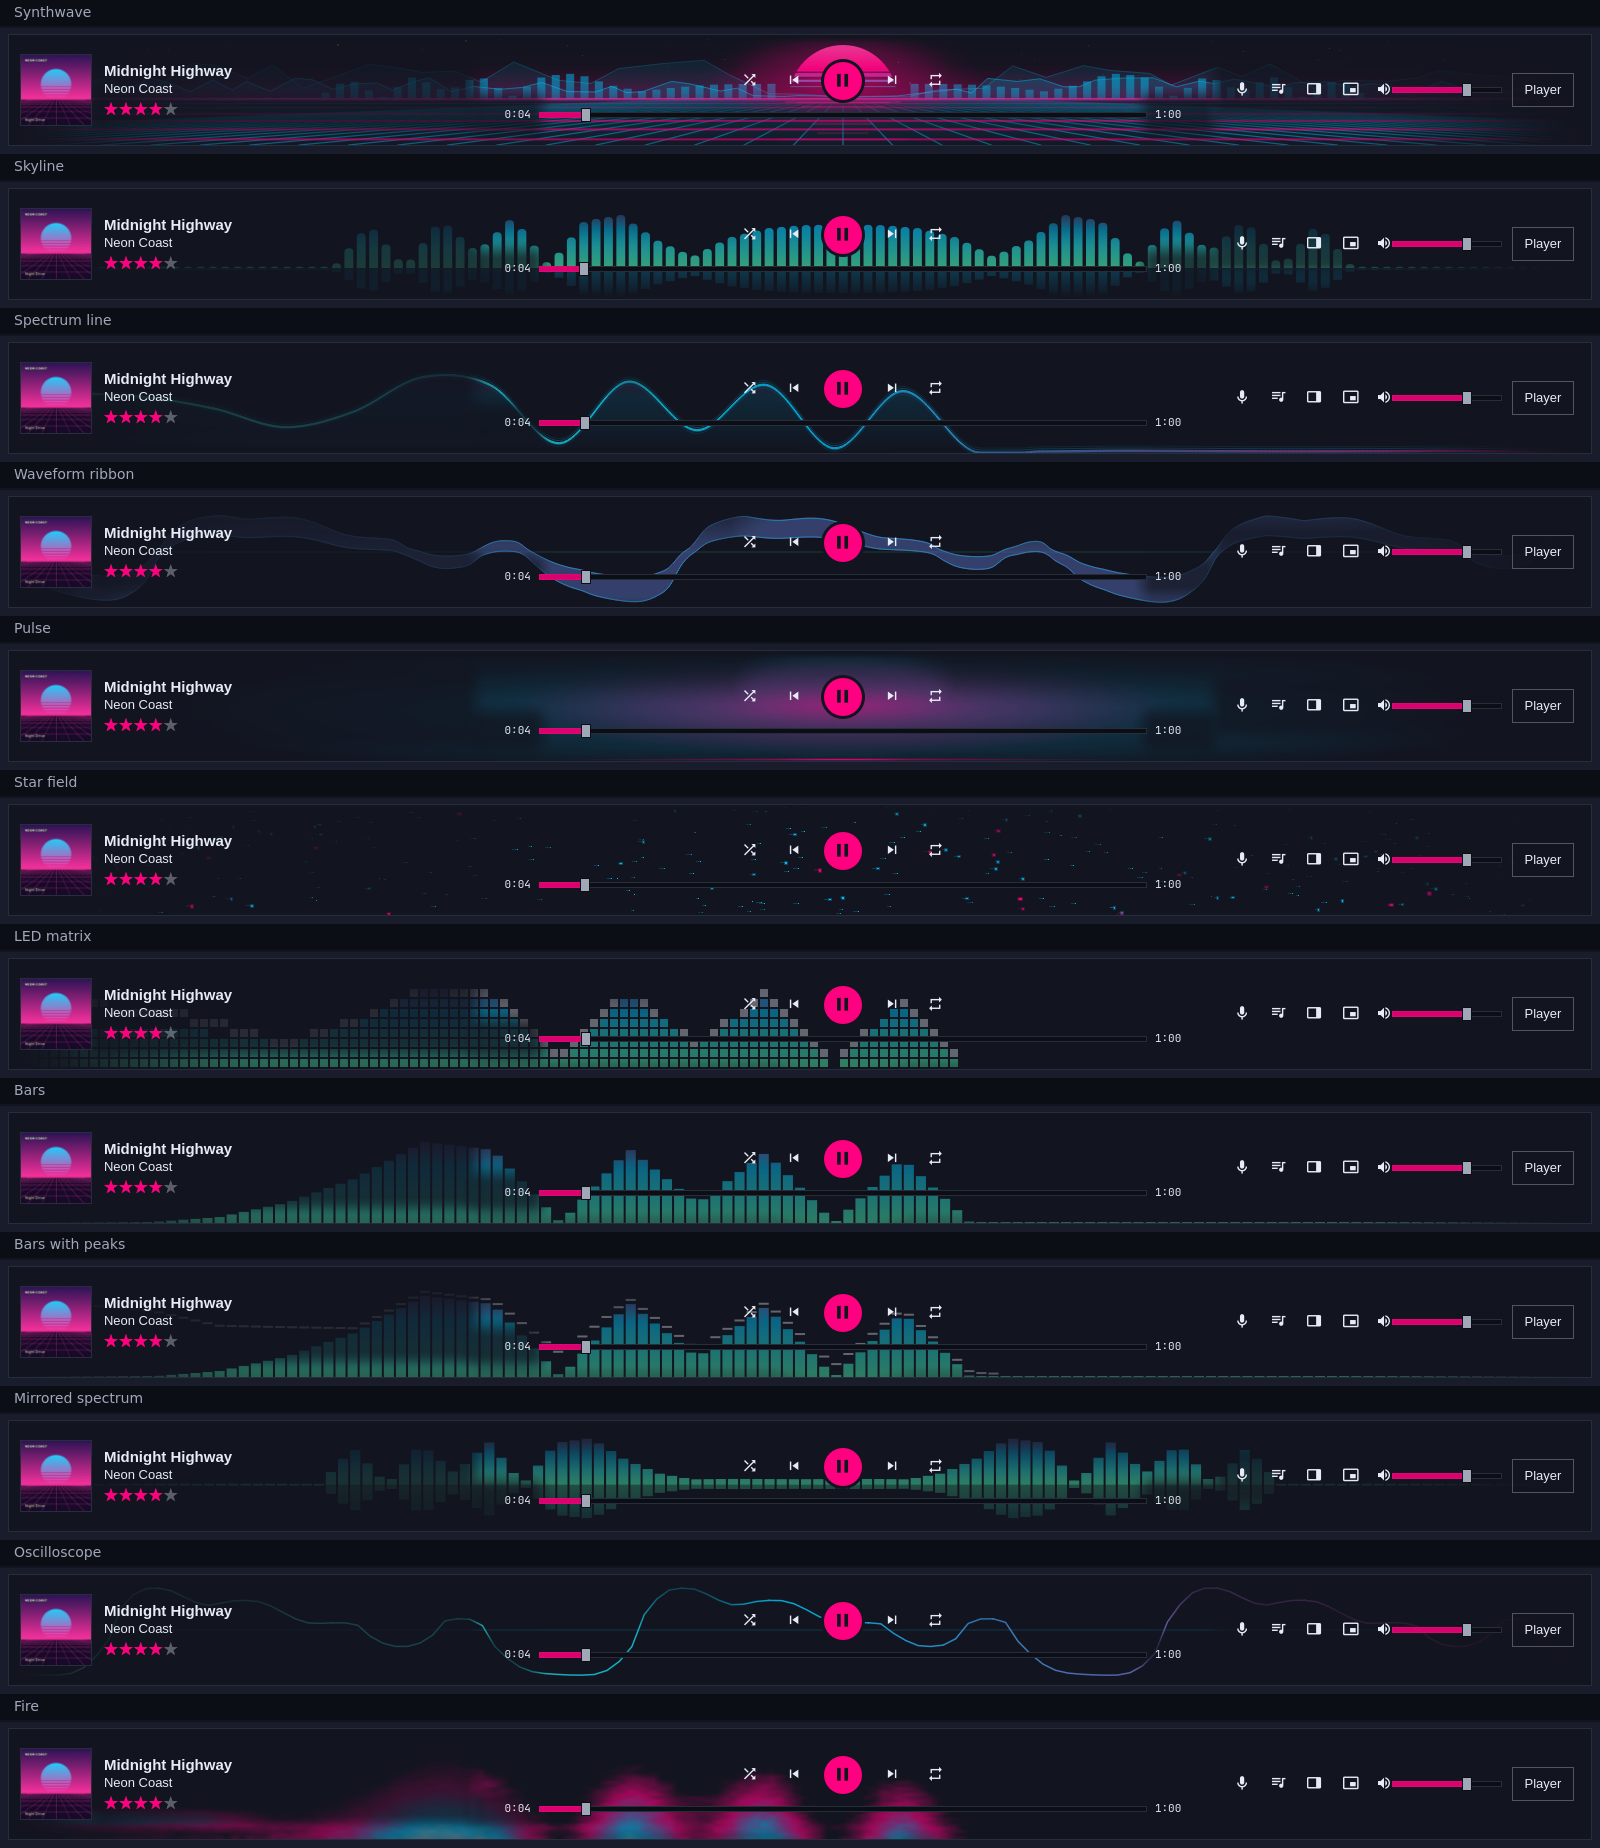
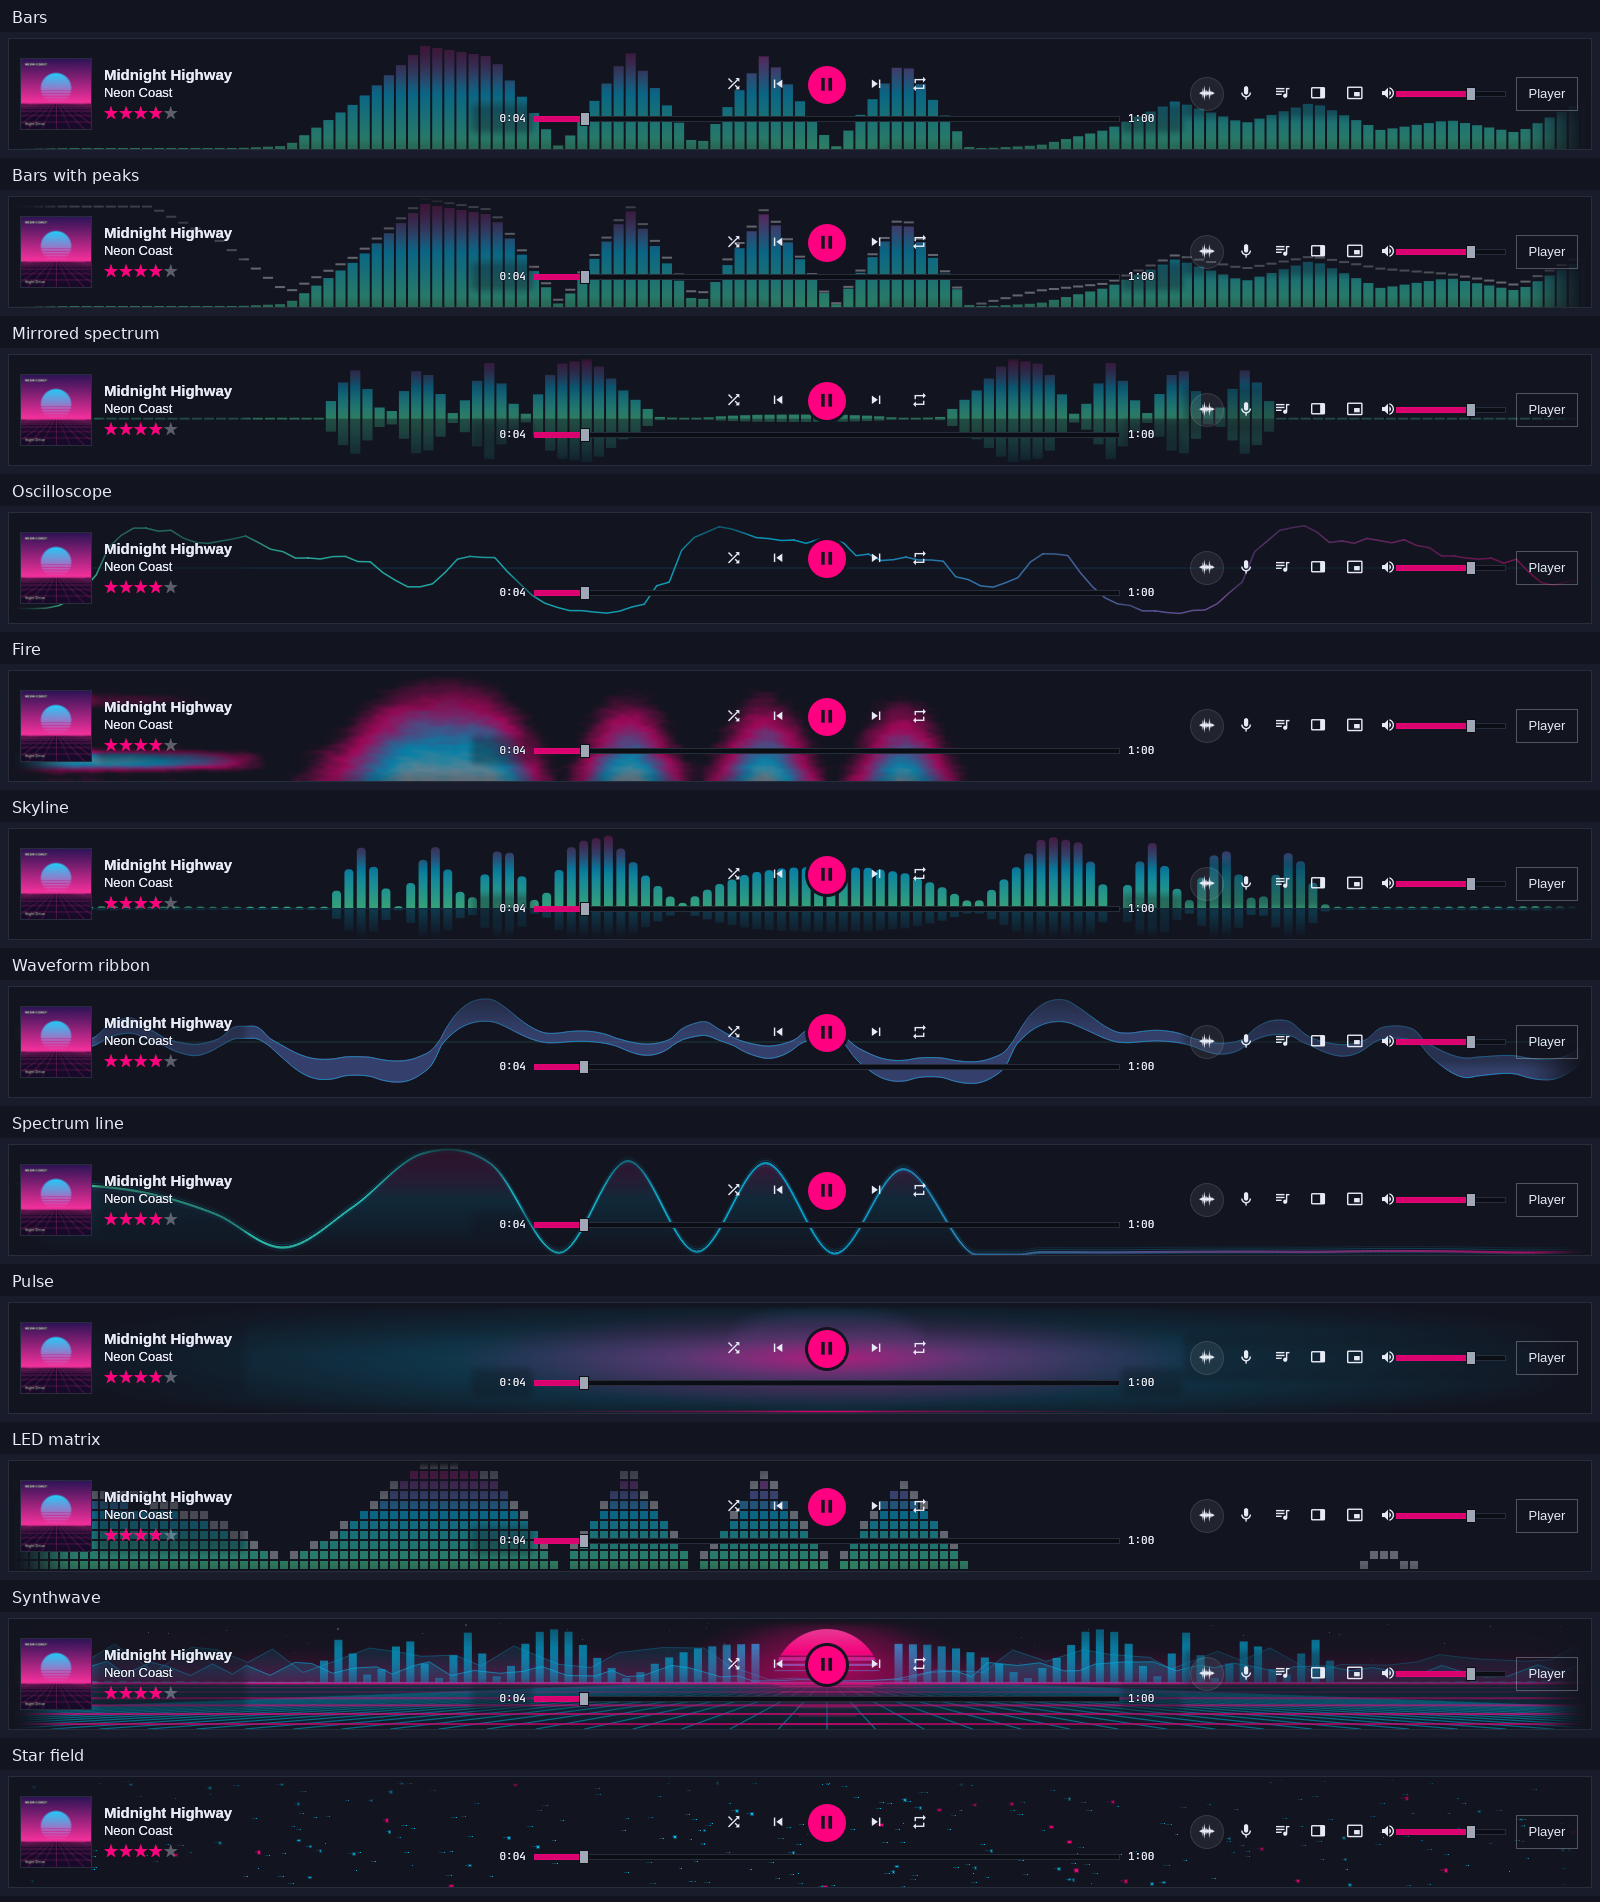
Document full-bar tuning on real music, with new screenshots

diff --git a/docs/plan/progress.md b/docs/plan/progress.md
@@ -6421,3 +6421,179 @@ new bar visualiser cards.
 - **Without music playing** the real bar behind the panel draws nothing to
   compare; the cards' small drawings move on made-up levels.
 - **Translations**: the new strings are English only.
+
+## Full-bar tuning on real music (21 October 2026)
+
+Matt ran the whole-bar visualiser with Synthwave on a loud rock FLAC and
+said: "The shading seems aggressive on the left here particularly. The EQ
+visualisation doesn't seem to be aggressive enough on this view." In his
+screenshot the left third (cover and title) was a flat dark patch and the
+towers were short and level across the bar. Both came from tuning on
+made-up tones. User documentation is in
+[docs/now-playing.md](../now-playing.md#sensitivity).
+
+### What was built
+
+```
+src/engine/spectrum.{h,cpp}         auto-range: ceilings per group of bands, a window below them, a curve, a kick; sensitivity
+src/engine/player.h                 setVisualiserSensitivity
+src/app/appearance.{h,cpp}          visualiserSensitivity (low, normal, high), kept as appearance/visualiserSensitivity
+src/app/main.cpp, tests/nowplaying_context.h  the setting reaches the player's analyser
+src/app/visualiser.cpp              a narrow end fade, a softer top fade, a light dim under the words; taller towers
+src/app/BigBar.qml                  a halo on the title, artist and times; the title's quiet area only as wide as the words
+src/app/BarVisualiserSettings.qml   Sensitivity in Settings > Appearance > Visualiser
+src/app/VisualiserPicker.qml        Sensitivity chips along the picker's bottom row
+tests/visualiser_tests.cpp          two new tests, the contrast test extended, an opt-in real-music sheet
+```
+
+- **What was wrong with the levels.** Run through the analyser, Bondslave's
+  *Stand Strong* (mean −14 dBFS, a loud modern master) sat between 0.4 and
+  0.75 in most bands nearly all the time: the 60 dB fixed range put a loud
+  master high and flat, and Synthwave's towers could only reach 55 % of the
+  sky, rising into the part the fade dimmed most. A copy 24 dB quieter
+  barely lit two bands; pink noise peaking at −30 dBFS fell below the
+  range altogether.
+- **Auto-range** (`Spectrum`). The analyser keeps each band's decibels
+  unclamped. Each group of four bands has a ceiling: its loudest band, which
+  jumps up at once, holds for a second, then falls 6 dB a second. A band's
+  reference is half way (Normal: 65 % of the way) from the loudest group's
+  ceiling to its own group's, so treble moves without looking as loud as
+  the bass. The band is placed in a 34 dB window below that reference and
+  put through a power curve (1.2), which keeps the average in the middle
+  and the peaks tall. A jump in the bass since the last buffer lifts the
+  lowest quarter of the bands, most at the bottom, so kicks stand out. The
+  reference never drops below −62 dB, so hiss and silence stay low. The
+  existing fast attack and slow fall, and the peaks, work on the result.
+  Every consumer of `Player::levels()` gets it: the deck, the strip, the
+  mini players, the big view, the large bar and the Omarchy bar's feed.
+- **Sensitivity** (`appearance/visualiserSensitivity`, Settings > Appearance
+  > Visualiser and the picker): Low has a 36 dB window, the reference 3 dB
+  higher, a curve of 1.35 and a smaller kick; High a 32 dB window, the
+  reference 4 dB lower, a curve of 1.05, more whitening and a bigger kick.
+  Normal is the default and suits loud masters and quiet recordings alike.
+- **Shading.** The end fade now runs over 4.5 % of the width (20–72 px)
+  instead of 17 % (up to 300 px), so the picture reaches behind the cover
+  and the title. The fade towards the library starts at 45 % rather than
+  20 % and is full by half way down. The dimming under the words is 35 %
+  instead of 72 %, with an 8–13 px feather instead of 22 % of the height,
+  and the title's quiet area is only as wide as the title or the artist
+  reaches, not the whole column. The title, the artist and the two times
+  carry an outline halo in the bar's colour at 60 % behind the whole bar
+  (`Text.Outline`). The oscilloscope, whose bright line crosses the title,
+  is held to 70 % instead of 80 %.
+- **Synthwave.** In the whole scene the towers can reach 90 % of the sky
+  instead of 55 %; the auto-range keeps the average lower, so the hills
+  still show between the beats.
+
+### Real music
+
+The opt-in `realMusicSheet` test (`OMAMP_VIS_REAL="<file>@<seconds>;…"`,
+`OMAMP_VIS_SHOTS=<folder>`) draws the large bar in the library window,
+1,600 px wide, at each moment of each file: Omamp's `Decoder` reads six
+seconds up to the moment and pushes them through `Spectrum` at 30 updates a
+second, as the player does, and it prints how full the analyser was and the
+contrast under the title and the artist. No audio device is opened and the
+files are only read. Run before and after on six moments from Matt's
+Bondslave album (*Stand Strong* three times, *Bold as a Lion*, *Emmaus*)
+and a copy of *Unseen (instrumental)* 24 dB quieter, Night Ride and OneQode
+Light Glass. The sheets stay private, outside the repository.
+
+| Moment | Before: tallest band | After: tallest band | After: mean band |
+|---|---:|---:|---:|
+| Stand Strong 0:35 | 0.83 | 0.96 | 0.28 |
+| Stand Strong 1:35 | 0.86 | 0.96 | 0.25 |
+| Stand Strong 2:40 | 0.87 | 0.96 | 0.30 |
+| Bold as a Lion 1:10 | 0.79 | 0.91 | 0.35 |
+| Emmaus 0:25 | 0.78 | 0.96 | 0.21 |
+| Unseen, 24 dB quieter, 1:00 | 0.41 | 0.96 | 0.31 |
+
+"Tallest band" is the highest level over the last second; with the towers
+able to reach 90 % of the sky, the loudest towers stand at up to about
+86 % of it on the beats, and the quiet copy now looks like the loud one.
+Over the whole of *Stand Strong* (a numpy copy of the analyser, used to
+choose the numbers), the tallest band's median went from 0.71 to 0.81 and
+its 90th percentile from 0.82 to 1.0, while the average band went from
+0.41 to 0.37: taller on the beats, lower between them, and each band moves
+over 43 % more of its height (standard deviation 0.14 to 0.21).
+
+### Contrast
+
+Measured as before: the background under the words with the words hidden,
+against their colour, so the halo is not counted.
+
+- `fullBarInTheWindow` (every style, the made-up fixture, a 31-character
+  title and an artist): at most 2 % of the title's pixels under 4.5:1 and
+  of the artist's under 3:1. Worst single pixels: title 4.10:1 (Star field)
+  and 3.86:1 (Spectrum line, bar at the top) in Night Ride, 7.59:1 in Light
+  Glass; artist 4.21:1 (Oscilloscope) in Night Ride, 7.53:1 in Light Glass.
+- Real music, Synthwave, Bars with peaks, Skyline and LED matrix in Night
+  Ride: title at least 6.56:1, artist at least 6.72:1, no pixel below the
+  aim (before: 11.5:1 and 12.2:1, because the left third was nearly
+  empty). Light Glass with Synthwave, Bars with peaks, Star field and
+  Spectrum line: title at least 8.49:1, artist at least 8.32:1.
+
+### CPU
+
+`OMAMP_VIS_BENCH=1 … cpuBehindTheWholeBar`, as in
+[Full-bar visualisers](#full-bar-visualisers-21-october-2026), run on the
+old build and the new one back to back (load average 6–9, so a point or two
+of noise either way):
+
+| Style | Before: CPU | After: CPU | After: paint |
+|---|---:|---:|---:|
+| (off) | 2.7 % | 2.9 % | – |
+| Bars | 4.6 % | 5.0 % | 0.18 ms |
+| Skyline | 6.6 % | 4.1 % | 0.35 ms |
+| Spectrum line | 7.9 % | 8.7 % | 0.84 ms |
+| Pulse | 10.7 % | 8.1 % | 0.27 ms |
+| LED matrix | 7.8 % | 7.0 % | 0.11 ms |
+| Synthwave | 8.6 % | 7.1 % | 0.27 ms |
+| Star field | 4.1 % | 3.8 % | 0.15 ms |
+
+The auto-range adds a few dozen multiplications and 24 `pow` calls per
+analyser update, which does not show. Every style stays within the earlier
+budget.
+
+### Tests
+
+- `autoRangeFillsLoudAndQuiet`: pink noise with a kick drum twice a second,
+  made by ffmpeg and decoded by `Decoder`, scaled to peak at −6 dBFS (a loud
+  master) and −30 dBFS (a very quiet recording). On Normal, after three
+  seconds, on both: the tallest band's median at least 0.45 and its 90th
+  percentile at least 0.7 (measured 0.56 and 0.78 on both), the average
+  band between 0.2 and 0.7 (0.32 and 0.27) and nearly never above 0.9, and
+  the bass moving with the kicks; the two within 0.12 of each other; High
+  above Normal above Low; silence stays at zero at every sensitivity.
+- `sensitivitySettingPersists`: the default, bad values refused, kept in
+  `window.conf`, reaching the player's analyser at start and on change,
+  Settings' radio buttons and the picker's chips.
+- `fullBarFadeAndEveryStyle`: full strength 80 px from each end; the dim
+  under the words between half and three quarters of the open picture.
+- `fullBarInTheWindow`: the same for the real title, the halo on, and the
+  artist's contrast as well as the title's.
+- `everyStyleRendersAtEverySize` paints on a dark window: loud white noise
+  now lights every star in the peak colour, white by default, which was
+  invisible on the test's white window.
+
+`bin/test` with JOBS=4: 34 Totals lines, 505 passed, 0 failed, 10 skipped (the
+opt-in benchmarks and live tests, and the new opt-in real-music sheet).
+
+### Screenshots
+
+`docs/fullbar-synthwave-{light,dark}.png` and `docs/fullbar-styles-dark.png`,
+retaken: the made-up library from `tests/make-demo-library` with
+`DEMO_SECONDS=60`, playing Neon Coast's Midnight Highway on the native
+engine into a buffer (`OMAMP_NO_AUDIO_DEVICE`), captured with
+`OMAMP_DEMO` and `OMAMP_SCREENSHOT`, offscreen in software, in a throwaway
+HOME with no session bus. Light is a copy of OneQode Light Glass, dark of
+Night Ride.
+
+### Known gaps
+
+- **Not seen on a real screen** with real music playing; the real-music
+  check decoded the files offline into the same analyser.
+- **The fixed hold and fall** (one second, 6 dB a second) mean a sudden
+  quiet passage after a loud one takes about three seconds to fill again.
+- **The Omarchy bar's visualiser** now gets the auto-ranged levels too; it
+  was not re-checked against its own "show more strongly" setting.
+- **Translations**: the new strings are English only.

diff --git a/docs/now-playing.md b/docs/now-playing.md
@@ -248,9 +248,9 @@ Appearance** does.
 Opened from the large bar, the picker also has the bar's places (**Whole
 bar**, **Seek bar**, **Edge**, **Beside cover**, **Off**) and whether the bar
 uses the **Same as the player** style or its **Own style**. With its own
-style, the previews choose the bar's style only. **Reduce motion** and
-**More settings…** (Settings > Appearance) are along the bottom of every
-picker.
+style, the previews choose the bar's style only. **Reduce motion**,
+[**Sensitivity**](#sensitivity) and **More settings…** (Settings >
+Appearance) are along the bottom of every picker.
 
 ![The picker in the big Now Playing view](visualiser-picker-big-dark.png)
 
@@ -282,18 +282,22 @@ Appearance > Visualiser** places a visualiser in it:
   <img alt="The library with Synthwave behind the whole large bar" src="fullbar-synthwave-light.png">
 </picture>
 
-The visualiser fills the bar and fades out over the last sixth of its
-width at each end, and towards the edge that faces the library, so it
-melts into the window rather than stopping at a line. It centres on the
-play button: Synthwave's sun rises behind it, with hills, a city of
-spectrum bars and the rolling grid running out to both ends. Under the
-title, the times and the controls on the right it is dimmed, so the words
-stay readable; the play button gets a ring in the bar's colour.
+The visualiser fills the bar, softening only over the last few dozen
+pixels at each end and a little towards the edge that faces the library,
+so it melts into the window rather than stopping at a line. It centres on
+the play button: Synthwave's sun rises behind it, with hills, a city of
+spectrum bars and the rolling grid running out to both ends, behind the
+cover and the title too. The title, the artist and the times carry a soft
+halo in the bar's colour, and the picture is dimmed a little under them
+and under the controls on the right, so the words stay readable (at least
+4.5:1 for the title and 3:1 for the artist, in light and dark themes);
+the play button gets a ring in the bar's colour.
 
 ![Every style behind the whole bar, in Night Ride](fullbar-styles-dark.png)
 
 Synthwave, Star field, Pulse and Spectrum line suit it best. The busier
-styles show more faintly: Skyline and Fire at 60 %, and the bars, Bars with
+styles show more faintly: Oscilloscope at 70 %, Skyline and Fire at 60 %,
+and the bars, Bars with
 peaks, Mirrored spectrum and LED matrix at 45 %, spread over thin columns,
 with the LED matrix's unlit cells left out. A click on the bar's empty
 space does nothing here, so `Shift+V` moves the style on.
@@ -305,6 +309,29 @@ own, that moves the shared style. The wheel works behind the whole bar too,
 over any part that is not a button or a slider. The bar's waveform button
 opens the [picker](#choosing-a-visualiser) with its places and its style. The palette (`Ctrl+K`) has **Large bar visualiser: Along the edge**
 and the rest.
+
+### Sensitivity
+
+The visualisers follow the music's loudness, so a loud modern master and a
+quiet old recording both move them over most of their height. Omamp keeps
+track of how loud each part of the spectrum has been over the last few
+seconds and scales the bars to that: on loud rock Synthwave's towers reach
+most of the way up the sky on the beats, and a quiet passage fills the bars
+again after a few seconds. Kick drums push the lowest bars a little
+higher.
+
+**Settings > Appearance > Visualiser > Sensitivity**, and the
+**Sensitivity** buttons along the bottom of the
+[picker](#choosing-a-visualiser), choose how readily the bars fill:
+
+| Sensitivity | Does |
+| --- | --- |
+| Low | Calmer: the bars sit lower and reach the top only on the loudest moments |
+| Normal | Tall on the beats without sitting at the top. The default, for loud and quiet music alike |
+| High | Taller and busier, for quiet music or a small visualiser |
+
+It applies to every visualiser, the Omarchy bar's included, and is kept in
+`window.conf` as `appearance/visualiserSensitivity`.
 
 ### Edge to edge in the big view
 
